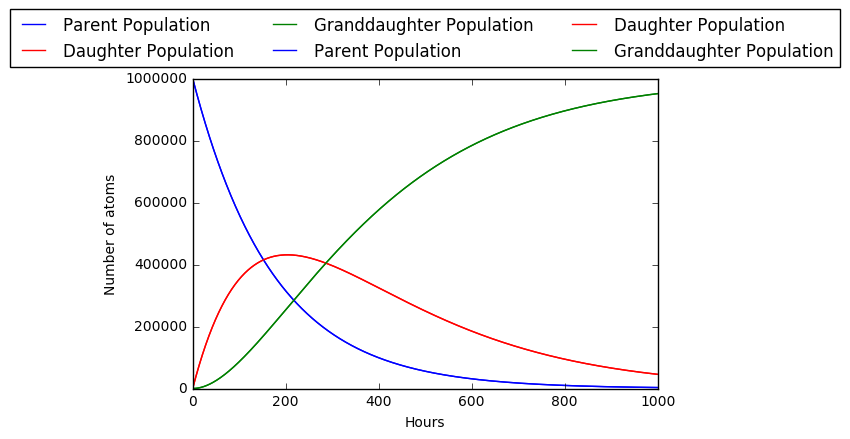
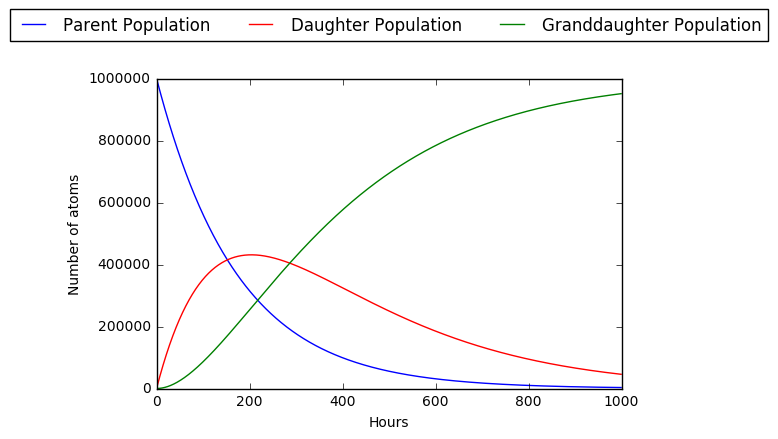
updating files and readme

diff --git a/README.md b/README.md
@@ -17,6 +17,6 @@ One is given that a parent nuclide has a half life of 5 days and a daughter nucl
 ## Coding in Python
 
 The methods by which this problem was initially solved using Python can be seen in the jupyter notebook that contains the [Python portion of the exercise.](python_demo.ipynb) The final result is the following plot:
-![Python plot of populations](images/ipyplot.png)
+![Python plot of populations](images/pyplot.png)
 
 
